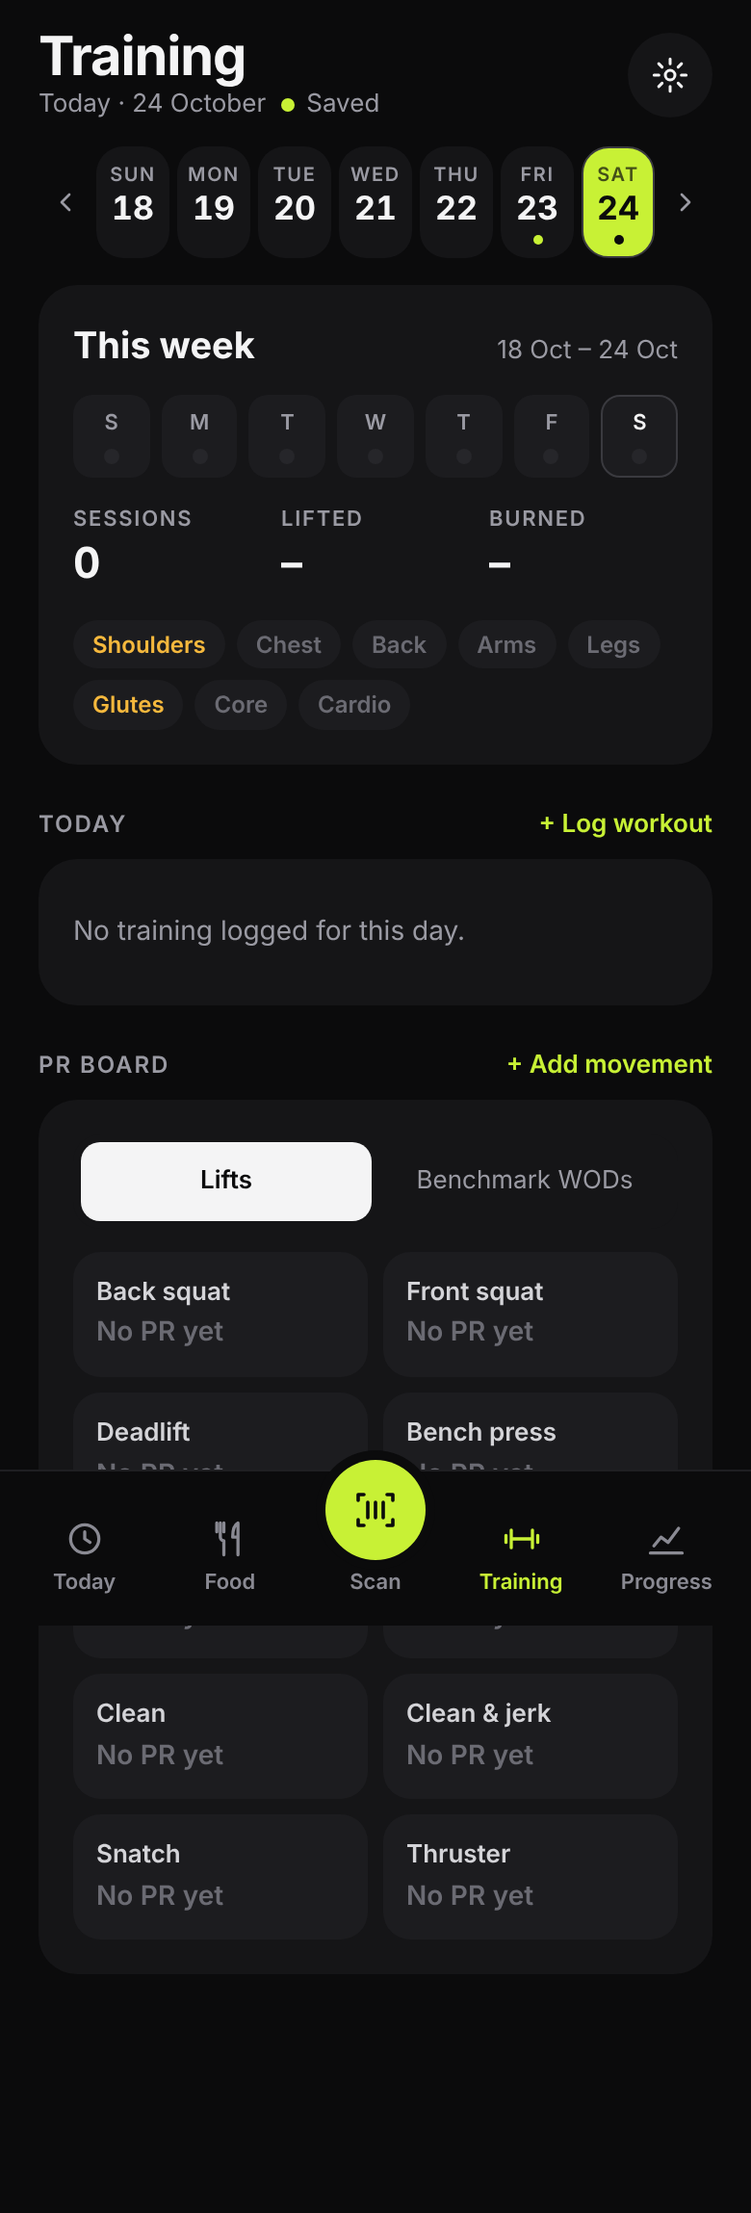
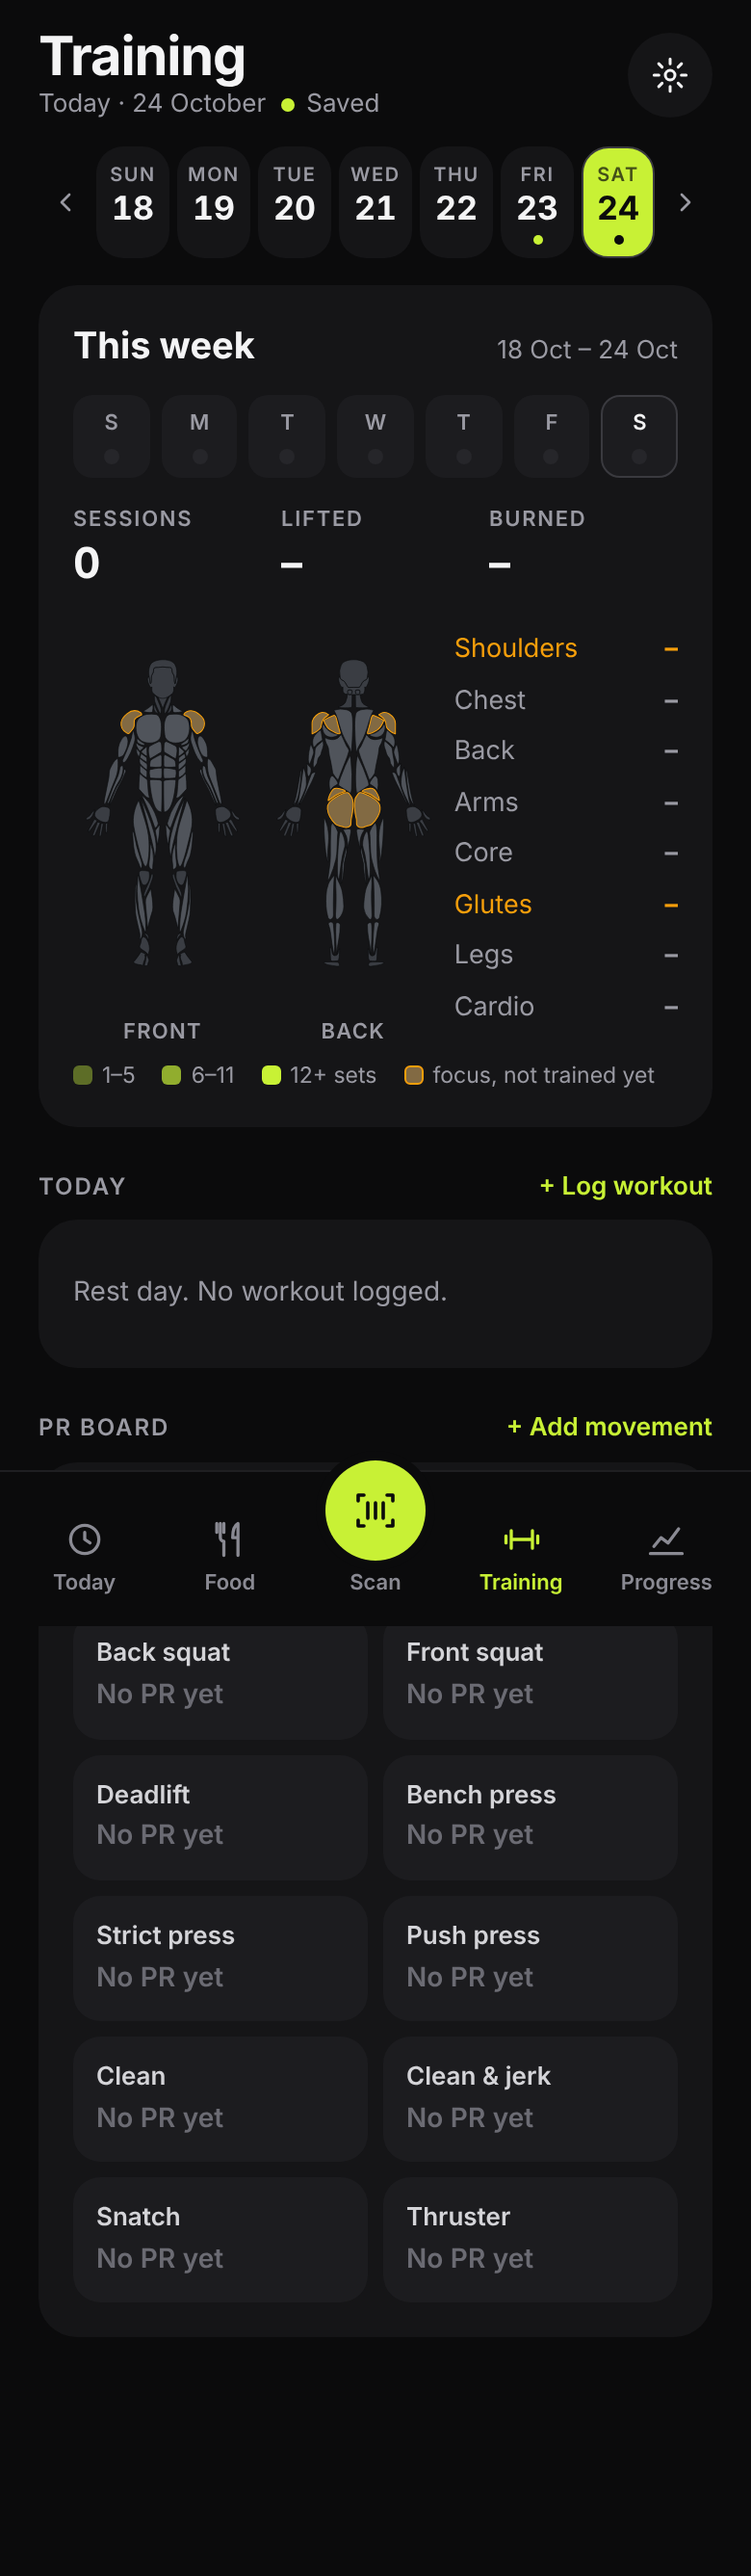
Training tab shows only the picked day's workout
Other days' full cards are replaced by a one-line Past workouts list (place filter,
tap to open that day) and a See all sheet grouped by month. Rest days say so.
Service worker cache v17.

Claude-Session: https://claude.ai/code/session_01NXSLsekK9o7ccniDYoUDFF

diff --git a/index.html b/index.html
@@ -117,6 +117,11 @@ label.f input, label.f select, label.f textarea { margin-top: 6px; background: v
 .search svg { width: 18px; height: 18px; fill: none; stroke: var(--muted); stroke-width: 1.8; stroke-linecap: round; flex: none; }
 /* lists */
 .list .item { display: flex; align-items: center; gap: 14px; padding: 13px 0; border-bottom: 1px solid var(--hair); }
+.prow { width: 100%; background: none; border: 0; border-bottom: 1px solid var(--hair); color: var(--text); text-align: left; }
+.prow .n { display: block; font-weight: 600; }
+.prow .s { display: block; font-size: 13px; color: var(--muted); }
+.prow .pd { flex: none; text-align: right; font-size: 12px; color: var(--muted); line-height: 1.2; }
+.prow .pd b { display: block; font-family: var(--display); font-size: 15px; color: var(--text); }
 .list .item:last-child { border-bottom: 0; }
 .list .item .t { flex: 1; min-width: 0; }
 .list .item .n { font-weight: 600; overflow-wrap: anywhere; }
@@ -1125,6 +1130,23 @@ function placeOf(w) { return PLACES[w.place] ? w.place : /^(gym|strength)$/i.tes
 function placePill(w) { const p = PLACES[placeOf(w)]; return `<span class="pill xs place" style="--pc:${p.color}">${esc(p.name)}</span>`; }
 function moveKey(n) { return slug(String(n).replace(/\s+/g, ' ').trim()); }
 function wTime(w) { return w.time || (w.loggedAt || '').slice(11, 16) || ''; }
+// past workouts: one line each, tap to open that day
+function sessRow(x) {
+  const st = sessionStats(x.w), meta = [x.w.kcal ? Math.round(x.w.kcal) + ' kcal' : '', st.vol ? fmtKg(st.vol) + ' lifted' : '', st.groups.slice(0, 3).join(', ')].filter(Boolean).join(' · ');
+  return `<button class="item tap prow" data-act="openDay" data-date="${x.date}"><i class="pdot" style="background:${PLACES[placeOf(x.w)].color}"></i><span class="t"><span class="n" dir="auto">${esc(x.w.name || x.w.kind || 'Workout')}</span><span class="s">${esc(meta)}</span></span><span class="pd">${fmtDate(x.date, { weekday: 'short' })}<b>${fmtDate(x.date, { day: 'numeric', month: 'short' })}</b></span></button>`;
+}
+function pastSessions(pf, except) { return allSessions().filter(x => x.date <= ymd() && x.date !== except && (pf === 'all' || placeOf(x.w) === pf)); }
+function placeSeg(pf, act) { return `<div class="seg sm" role="group" aria-label="Filter by place" style="margin-bottom:6px">${[['all', 'All'], ...Object.entries(PLACES).map(([k, p]) => [k, p.name])].map(([k, n]) => `<button data-act="${act}" data-v="${k}" aria-pressed="${pf === k}">${n}</button>`).join('')}</div>`; }
+function pastCard(date, pf, last30) {
+  const all = pastSessions('all', date); if (!all.length) return '';
+  const rows = pastSessions(pf, date).slice(0, 5);
+  return `<h2>Past workouts<span>${last30} in 30 days</span></h2><div class="card">${placeSeg(pf, 'placeFilter')}<div class="list">${rows.map(sessRow).join('') || '<div class="empty">None here yet.</div>'}</div>${pastSessions(pf, date).length > 5 ? '<button class="btn block" data-act="allPast">See all past workouts</button>' : ''}</div>`;
+}
+function sheetPast(pf = S.placeFilter || 'all') {
+  const xs = pastSessions(pf), byM = {};
+  for (const x of xs) (byM[x.date.slice(0, 7)] ||= []).push(x);
+  openSheet('Past workouts', `${placeSeg(pf, 'pastFilter')}${Object.entries(byM).map(([m, a]) => `<span class="lbl">${fmtDate(m + '-01', { month: 'long', year: 'numeric' })} · ${a.length}</span><div class="list">${a.map(sessRow).join('')}</div>`).join('') || '<div class="empty">None here yet.</div>'}`);
+}
 function allSessions() { // newest first
   const out = [];
   for (const d of Object.values(S.log.days)) for (const w of d.workouts || []) out.push({ date: d.date, w });
@@ -1755,12 +1777,12 @@ function viewTrain() {
       return `<button class="pr" data-act="openPR" data-name="${esc(n)}" data-kind="lift"><span class="n">${esc(n)}</span>${one ? `<span class="b">${one.kg} kg</span><span class="d">${one.reps || 1}RM · ${fmtDate(one.date, { day: 'numeric', month: 'short' })}</span>` : '<span class="b none">No PR yet</span>'}</button>`; }).join('')
     : [...BENCH.map(b => ({ name: b[0], unit: b[1] })), ...Object.values(S.log.prs).filter(p => p.kind === 'bench' && !BENCH.some(b => b[0] === p.name)).map(p => ({ name: p.name, unit: p.unit }))].map(it => { const pr = S.log.prs[prId(it.name)], b = bestOf(pr);
       return `<button class="pr" data-act="openPR" data-name="${esc(it.name)}" data-kind="bench" data-unit="${it.unit}"><span class="n">${esc(it.name)}</span>${b ? `<span class="b">${fmtScore(b, pr.unit)}</span><span class="d">${esc(b.scale || 'Rx')} · ${fmtDate(b.date, { day: 'numeric', month: 'short' })}</span>` : '<span class="b none">Not done yet</span>'}</button>`; }).join('');
-  const pf = S.placeFilter || 'all', recent = allSessions().filter(x => x.date !== S.date && (pf === 'all' || placeOf(x.w) === pf)), shown = recent.slice(0, S.moreSess ? 40 : 4), moves = movesList();
+  const pf = S.placeFilter || 'all', moves = movesList();
   return `
     ${weekCard(S.date)}
     <h2>${S.date === ymd() ? 'Today' : esc(fmtDate(S.date, { weekday: 'long', day: 'numeric', month: 'short' }))}<button data-act="workout">+ Log workout</button></h2>
-    ${d.workouts.length ? d.workouts.map(w => `<div class="card">${sessionCard(S.date, w)}</div>`).join('') : '<div class="card"><div class="empty">No training logged for this day.</div></div>'}
-    ${allSessions().some(x => x.date !== S.date) ? `<h2>Recent sessions<span>${last30} in 30 days</span></h2><div class="seg sm" role="group" aria-label="Filter by place" style="margin-bottom:12px">${[['all', 'All'], ...Object.entries(PLACES).map(([k, p]) => [k, p.name])].map(([k, n]) => `<button data-act="placeFilter" data-v="${k}" aria-pressed="${pf === k}">${n}</button>`).join('')}</div>${shown.length ? '' : '<div class="card"><div class="empty">No sessions here yet.</div></div>'}${shown.map(x => `<div class="card">${sessionCard(x.date, x.w)}</div>`).join('')}${recent.length > shown.length ? '<button class="btn block" data-act="moreSess">Show older sessions</button>' : ''}` : ''}
+    ${d.workouts.length ? d.workouts.map(w => `<div class="card">${sessionCard(S.date, w)}</div>`).join('') : `<div class="card"><div class="empty">${S.date > ymd() ? 'Nothing planned for this day yet.' : 'Rest day. No workout logged.'}</div></div>`}
+    ${pastCard(S.date, pf, last30)}
     ${moves ? `<h2>Your movements<span>tap one to see progress</span></h2><div class="card" style="padding:4px 18px">${moves}</div>` : ''}
     <h2>PR board<button data-act="newPR">+ Add movement</button></h2>
     <div class="card"><div class="seg" role="group"><button data-act="prMode" data-mode="lift" aria-pressed="${S.prMode === 'lift'}">Lifts</button><button data-act="prMode" data-mode="bench" aria-pressed="${S.prMode === 'bench'}">Benchmark WODs</button></div><div class="prgrid">${list}</div></div>`;
@@ -1980,7 +2002,9 @@ document.addEventListener('click', e => {
   if (a === 'plan') return sheetPlan();
   if (a === 'planPdf') return planPdf(b);
   if (a === 'placeFilter') { S.placeFilter = b.dataset.v; return render(); }
-  if (a === 'moreSess') { S.moreSess = true; return render(); }
+  if (a === 'allPast') return sheetPast();
+  if (a === 'pastFilter') { S.placeFilter = b.dataset.v; return sheetPast(); }
+  if (a === 'openDay') { closeSheet(); goDate(b.dataset.date); window.scrollTo(0, 0); return; }
   if (a === 'catAll') { S.catAll = true; $('catList').hidden = false; b.hidden = true; return; }
   if (a === 'prMode') { S.prMode = b.dataset.mode; return render(); }
   if (a === 'openPR') return sheetPR(b.dataset.name, b.dataset.kind, b.dataset.unit);

diff --git a/sw.js b/sw.js
@@ -1,5 +1,5 @@
 // Network first, so a new version or catalogue shows up straight away; the cache only covers being offline.
-const CACHE = 'food-scanner-v16';
+const CACHE = 'food-scanner-v17';
 const SHELL = ['./', 'index.html', 'manifest.json', 'icon.svg', 'vendor/zxing-library-0.21.3.min.js'];
 self.addEventListener('install', e => { e.waitUntil(caches.open(CACHE).then(c => c.addAll(SHELL)).then(() => self.skipWaiting())); });
 self.addEventListener('activate', e => { e.waitUntil(caches.keys().then(ks => Promise.all(ks.filter(k => k !== CACHE && k.startsWith('food-scanner-')).map(k => caches.delete(k)))).then(() => self.clients.claim())); });
